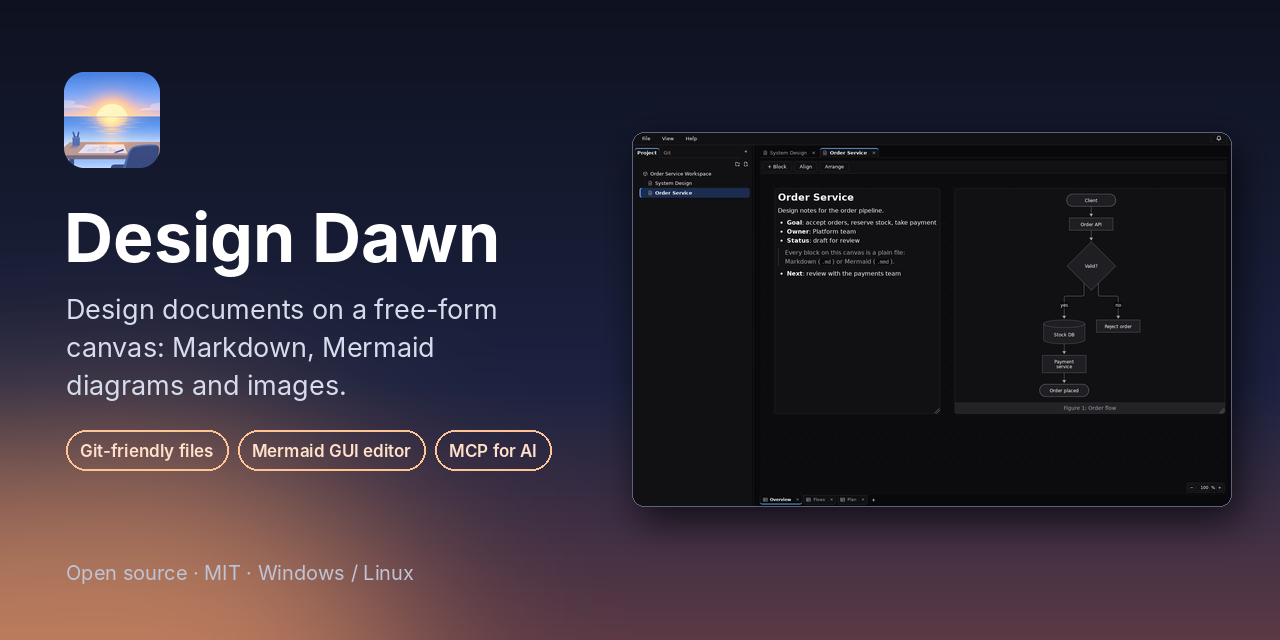
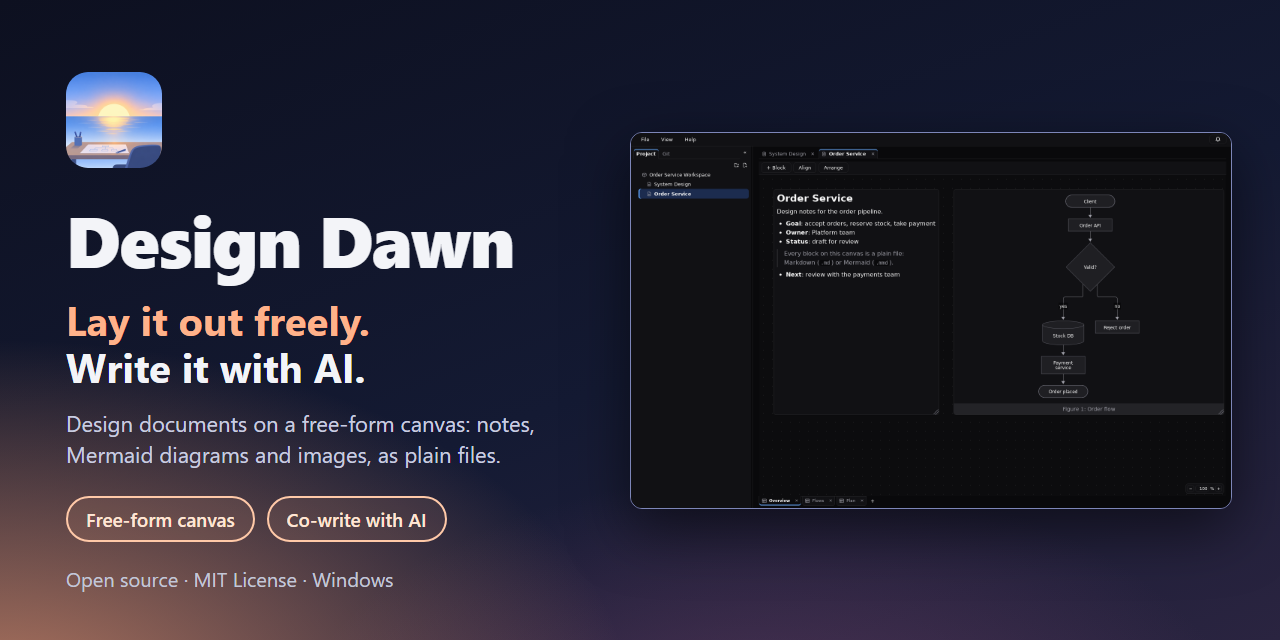
docs: lead with free layout and writing with AI
The README, the website and the social preview image now open with
"Lay it out freely. Write it with AI." The website FAQ is removed, and
the file-format text explains docs as code without assuming the reader
already knows the term.

diff --git a/website/ja/index.html b/website/ja/index.html
@@ -3,8 +3,8 @@
 <head>
   <meta charset="utf-8">
   <meta name="viewport" content="width=device-width, initial-scale=1">
-  <title>Design Dawn — Markdown と Mermaid で設計書を書く無料のデスクトップアプリ</title>
-  <meta name="description" content="Design Dawn は、Markdown・Mermaid の図・画像を自由配置キャンバスに並べて設計書（設計ドキュメント）を書く、無料・オープンソースのデスクトップアプリです。Git で差分を見られるテキスト保存、Mermaid の GUI 編集、AI 向け MCP サーバーに対応。">
+  <title>Design Dawn — 自由に並べて、AI と書く。| Markdown・Mermaid の設計書アプリ</title>
+  <meta name="description" content="Design Dawn は、Markdown のメモ・Mermaid の図・画像を自由配置キャンバスに並べて設計書（設計ドキュメント）を書き、AI ツールとも一緒に書ける、無料・オープンソースのデスクトップアプリです。AI は許可した範囲だけを手伝い、すべて普通のファイルとして保存されます。">
   <link rel="canonical" href="https://pg-refactor.github.io/Design-Dawn/ja/">
   <link rel="alternate" hreflang="en" href="https://pg-refactor.github.io/Design-Dawn/">
   <link rel="alternate" hreflang="ja" href="https://pg-refactor.github.io/Design-Dawn/ja/">
@@ -15,8 +15,8 @@
 
   <meta property="og:type" content="website">
   <meta property="og:site_name" content="Design Dawn">
-  <meta property="og:title" content="Design Dawn — 自由配置キャンバスで設計書を書く">
-  <meta property="og:description" content="Markdown・Mermaid の図・画像を1枚のキャンバスに。Git で差分を見られるテキストファイルで保存。Mermaid の GUI 編集と AI 向け MCP サーバー付き。">
+  <meta property="og:title" content="Design Dawn — 自由に並べて、AI と書く。">
+  <meta property="og:description" content="メモ・図・画像をシートの好きな場所に置いて設計書を書くデスクトップアプリ。AI は許可した範囲だけを手伝い、すべて普通のファイルとして手元に残ります。">
   <meta property="og:url" content="https://pg-refactor.github.io/Design-Dawn/ja/">
   <meta property="og:image" content="https://pg-refactor.github.io/Design-Dawn/images/og.png">
   <meta property="og:image:width" content="1280">
@@ -74,10 +74,11 @@
 <main>
   <div class="hero">
     <div class="wrap">
-      <h1><span class="glow">自由配置キャンバス</span>で設計書を書く</h1>
-      <p class="lead">Design Dawn は、ソフトウェアの設計書（設計ドキュメント）を書くための無料・オープンソースのデスクトップアプリです。
-        <strong>Markdown</strong>・<strong>Mermaid の図</strong>・<strong>画像</strong>をシート上の好きな位置に置けて、
-        すべてが普通のテキストファイルとして保存されるので、人が読め、Git で差分を見られ、AI ツールも安全に編集できます。</p>
+      <h1><span class="glow">自由に並べて、</span>AI と書く。</h1>
+      <p class="lead">Design Dawn は、設計書（設計ドキュメント）を書くための無料・オープンソースのデスクトップアプリです。
+        <strong>メモ</strong>（Markdown）・<strong>Mermaid の図</strong>・<strong>画像</strong>をシートの好きな場所に置き、
+        Claude・Codex・GitHub Copilot・Cursor などの AI ツールには、許可した範囲だけを手伝ってもらえます。
+        すべて普通のファイルとして手元に残ります。</p>
       <div class="cta">
         <a class="btn primary" href="https://github.com/PG-Refactor/Design-Dawn">GitHub で入手</a>
         <a class="btn" href="https://github.com/PG-Refactor/Design-Dawn/releases/latest">Windows 版をダウンロード</a>
@@ -124,10 +125,11 @@
   <section id="files">
     <div class="wrap two">
       <div>
-        <h2>Docs as Code：テキストで保存、読める差分</h2>
-        <p>配置は小さな JSON ファイルに、内容は <code>.md</code> と <code>.mmd</code> ファイルに保存されます。
-          設計の変更をプルリクエストでレビューでき、人や AI が1つのブロックだけを他に触れずに変更できます。
-          すべての JSON に <code>schemaVersion</code> があり、ID は変わらない UUID です。</p>
+        <h2>普通のファイルで保存。ソースコードと同じように変更を管理</h2>
+        <p>メモは <code>.md</code>、図は <code>.mmd</code> のファイルとして、配置は小さな JSON ファイルとして保存されます。
+          どのテキストエディタでも開け、Git を使えば設計のどこが変わったかを行単位で確認し、ソースコードと同じようにプルリクエストでレビューできます（「Docs as Code」と呼ばれる進め方です）。
+          人や AI が1つのブロックだけを、他に触れずに変更することもできます。
+          ドキュメント・シート・ブロックにはずっと変わらない ID が付いているので、名前を変えても周りのファイルが壊れることはありません。</p>
         <p>独自のデータベースは使わず、ロックインもありません。Design Dawn をやめても、ドキュメントは Markdown と Mermaid のまま残ります。</p>
       </div>
 <pre><code>my-project/
@@ -157,16 +159,6 @@
 <pre><code>claude mcp add design-dawn -- /path/to/design-dawn-mcp</code></pre>
       </div>
       <img class="shot" loading="lazy" src="../images/ai-request.png" width="1600" height="1000" alt="AI が Project を編集してよいかを確認する Design Dawn の画面">
-    </div>
-  </section>
-
-  <section id="faq">
-    <div class="wrap">
-      <h2>よくある質問</h2>
-      <details class="faq"><summary>無料ですか？</summary><p>はい。MIT ライセンスのオープンソースです。</p></details>
-      <details class="faq"><summary>対応 OS は？</summary><p>Windows 11 です（ダウンロードしてすぐ使えます）。Linux ではソースからビルドして使えます。Tauri 2（Rust と TypeScript）で作られています。</p></details>
-      <details class="faq"><summary>Markdown エディタやホワイトボードツールとの違いは？</summary><p>両方の良さを組み合わせています。ホワイトボードのように Markdown と Mermaid のブロックを自由に置けて、しかも保存はすべて Git やコードレビューで扱えるテキストファイルです。</p></details>
-      <details class="faq"><summary>インターネット接続は必要ですか？</summary><p>不要です。図はローカルで描画され、MCP サーバーもネットワークに接続しません。</p></details>
     </div>
   </section>
 </main>

diff --git a/website/index.html b/website/index.html
@@ -3,8 +3,8 @@
 <head>
   <meta charset="utf-8">
   <meta name="viewport" content="width=device-width, initial-scale=1">
-  <title>Design Dawn — Free-form canvas for design documents with Markdown &amp; Mermaid</title>
-  <meta name="description" content="Design Dawn is a free, open-source desktop app for writing design documents on a free-form canvas with Markdown, Mermaid diagrams and images. Git-friendly plain files, a Mermaid GUI editor, and an MCP server for AI tools.">
+  <title>Design Dawn — Lay it out freely. Write it with AI. | Design docs with Markdown &amp; Mermaid</title>
+  <meta name="description" content="Design Dawn is a free, open-source desktop app for design documents: place Markdown notes, Mermaid diagrams and images anywhere on a free-form canvas, and write them together with AI tools through a local MCP server, only where you allow. Saved as plain files.">
   <link rel="canonical" href="https://pg-refactor.github.io/Design-Dawn/">
   <link rel="alternate" hreflang="en" href="https://pg-refactor.github.io/Design-Dawn/">
   <link rel="alternate" hreflang="ja" href="https://pg-refactor.github.io/Design-Dawn/ja/">
@@ -15,8 +15,8 @@
 
   <meta property="og:type" content="website">
   <meta property="og:site_name" content="Design Dawn">
-  <meta property="og:title" content="Design Dawn — Design documents on a free-form canvas">
-  <meta property="og:description" content="Markdown, Mermaid diagrams and images on one canvas, stored as Git-friendly plain files. Includes a Mermaid GUI editor and an MCP server for AI tools.">
+  <meta property="og:title" content="Design Dawn — Lay it out freely. Write it with AI.">
+  <meta property="og:description" content="A desktop canvas for design docs: place notes, diagrams and images anywhere, and let AI help — only where you allow. Everything stays as plain files on your machine.">
   <meta property="og:url" content="https://pg-refactor.github.io/Design-Dawn/">
   <meta property="og:image" content="https://pg-refactor.github.io/Design-Dawn/images/og.png">
   <meta property="og:image:width" content="1280">
@@ -74,10 +74,11 @@
 <main>
   <div class="hero">
     <div class="wrap">
-      <h1>Design documents on a <span class="glow">free-form canvas</span></h1>
-      <p class="lead">Design Dawn is a free, open-source desktop app for writing software design documents.
-        Place <strong>Markdown</strong>, <strong>Mermaid diagrams</strong> and <strong>images</strong> anywhere on a sheet —
-        and keep everything as plain files that people can read, Git can diff, and AI tools can safely edit.</p>
+      <h1><span class="glow">Lay it out freely.</span> Write it with AI.</h1>
+      <p class="lead">Design Dawn is a free, open-source desktop app for design documents.
+        Place <strong>notes</strong> (Markdown), <strong>Mermaid diagrams</strong> and <strong>images</strong> anywhere on a free-form canvas,
+        and let AI tools such as Claude, Codex, GitHub Copilot and Cursor help — only where you allow.
+        Everything stays as plain files on your machine.</p>
       <div class="cta">
         <a class="btn primary" href="https://github.com/PG-Refactor/Design-Dawn">Get it on GitHub</a>
         <a class="btn" href="https://github.com/PG-Refactor/Design-Dawn/releases/latest">Download for Windows</a>
@@ -124,10 +125,11 @@
   <section id="files">
     <div class="wrap two">
       <div>
-        <h2>Docs as code: plain files, readable diffs</h2>
-        <p>Layout lives in small JSON files and content lives in <code>.md</code> and <code>.mmd</code> files.
-          Review design changes in pull requests, and let a person or an AI change one block without touching the rest.
-          Every JSON file carries a <code>schemaVersion</code>, and IDs are stable UUIDs.</p>
+        <h2>Plain files you can track like source code</h2>
+        <p>Each note is saved as a <code>.md</code> file and each diagram as a <code>.mmd</code> file; the layout goes into small JSON files.
+          You can open them in any text editor, and with Git you can see exactly what changed in a design and review it in a pull request,
+          the same way teams review code (often called “docs as code”). A person or an AI can change one block without touching the rest.
+          Every document, sheet and block keeps the same ID for life, so renaming one never breaks the files around it.</p>
         <p>No proprietary database and no lock-in: if you stop using Design Dawn, your documents are still Markdown and Mermaid.</p>
       </div>
 <pre><code>my-project/
@@ -157,16 +159,6 @@
 <pre><code>claude mcp add design-dawn -- /path/to/design-dawn-mcp</code></pre>
       </div>
       <img class="shot" loading="lazy" src="images/ai-request.png" width="1600" height="1000" alt="Design Dawn asking whether an AI tool may edit a project">
-    </div>
-  </section>
-
-  <section id="faq">
-    <div class="wrap">
-      <h2>FAQ</h2>
-      <details class="faq"><summary>Is Design Dawn free?</summary><p>Yes. It is open source under the MIT License.</p></details>
-      <details class="faq"><summary>Which platforms are supported?</summary><p>Windows 11, with a ready-to-run download. On Linux it can be built from source. It is built with Tauri 2 (Rust and TypeScript).</p></details>
-      <details class="faq"><summary>How is it different from a Markdown editor or a whiteboard tool?</summary><p>It combines both: Markdown and Mermaid blocks are placed freely on sheets like a whiteboard, but everything is saved as plain text files that work with Git and code review.</p></details>
-      <details class="faq"><summary>Does it need an internet connection?</summary><p>No. Diagrams are rendered locally, and the MCP server opens no network connections.</p></details>
     </div>
   </section>
 </main>

diff --git a/website/style.css b/website/style.css
@@ -223,21 +223,6 @@ section p.sub {
     grid-template-columns: 1fr;
   }
 }
-details {
-  background: var(--card);
-  border: 1px solid var(--line);
-  border-radius: 10px;
-  padding: 14px 18px;
-  margin-bottom: 10px;
-}
-details summary {
-  cursor: pointer;
-  font-weight: 600;
-}
-details.faq p {
-  color: var(--muted);
-  margin: 10px 0 0;
-}
 footer {
   border-top: 1px solid var(--line);
   padding: 32px 0 48px;

diff --git a/README.ja.md b/README.ja.md
@@ -1,4 +1,4 @@
-# Design Dawn — Markdown と Mermaid で設計書を書く、自由配置キャンバスのデスクトップアプリ
+# Design Dawn — 自由に並べて、AI と書く。
 
 [English](README.md) | **日本語** · [Web サイト](https://pg-refactor.github.io/Design-Dawn/ja/)
 
@@ -9,8 +9,8 @@
 ![MCP server](https://img.shields.io/badge/AI-MCP%20server-8A2BE2.svg)
 
 **Design Dawn** は、設計書（設計ドキュメント・仕様書）を書くための無料・オープンソースのデスクトップアプリです（Tauri 2、Rust + TypeScript）。
-**Markdown エディタ**、GUI でも編集できる **Mermaid 作図ツール**、画像を同じシートに自由に配置でき、Git で差分を見られるテキストファイルとして保存します（Docs as Code）。
-**MCP サーバー**を備え、Claude・Codex・GitHub Copilot・Cursor などの AI ツールからも読み書きできます。
+メモ（**Markdown**）・**Mermaid の図**・**画像**を自由配置キャンバスの好きな場所に置き、Claude・Codex・GitHub Copilot・Cursor などの AI ツールとローカルの **MCP サーバー**経由で一緒に書けます（AI が手伝うのは許可した範囲だけ）。
+すべて普通のテキストファイルとして保存されるので、Git で変更履歴を残し、ソースコードと同じようにプルリクエストでレビューできます（「Docs as Code」と呼ばれる進め方です）。
 
 ドキュメントは複数のシートからなり、各シートに **Markdown**・**Mermaid の図**・**画像** のブロックを自由に配置できます。
 すべてが通常のファイルとフォルダとして保存されるため、人が読み書きでき、Git でレビューでき、AI ツールも安全に変更できます。
@@ -53,8 +53,8 @@
 ## Design Dawn を使う理由
 
 - **長い1本のページでも、ホワイトボードの独自ファイルでもない** — メモ・図・画面写真をホワイトボードのように並べつつ、各ブロックは `.md` / `.mmd` ファイルなので、プルリクエストで差分をレビューできます。
+- **AI と一緒に書ける** — AI はローカルの MCP サーバー経由で操作し、許可するまでは読み取り専用。同時の変更は黙って上書きされず衝突として検出されます。
 - **構文を覚えなくても Mermaid** — フローチャート・シーケンス図・ガントチャートを GUI で編集でき、正本は Mermaid のソースのままです。
-- **AI エージェントにも安全** — AI はローカルの MCP サーバー経由で操作し、許可するまでは読み取り専用。同時の変更は黙って上書きされず衝突として検出されます。
 - **オフライン・ローカル完結** — アカウント不要、クラウド不要、描画にネットワークを使いません。
 
 主な用途：アーキテクチャ・システム設計書、API やシーケンスの設計、図入りの ADR、ガントチャートでの計画、Git での設計レビュー。

diff --git a/README.md b/README.md
@@ -1,4 +1,4 @@
-# Design Dawn — free-form canvas for design documents with Markdown and Mermaid
+# Design Dawn — Lay it out freely. Write it with AI.
 
 **English** | [日本語](README.ja.md) · [Website](https://pg-refactor.github.io/Design-Dawn/)
 
@@ -8,10 +8,11 @@
 ![Built with Tauri 2](https://img.shields.io/badge/built%20with-Tauri%202-24C8DB.svg)
 ![MCP server](https://img.shields.io/badge/AI-MCP%20server-8A2BE2.svg)
 
-**Design Dawn** is a free, open-source desktop app (Tauri 2, Rust + TypeScript) for writing
-software design documents on a free-form canvas: a **Markdown editor**, a **Mermaid diagram editor**
-with a GUI, and image blocks on the same sheet, saved as Git-friendly plain files (docs as code), with
-an **MCP server** so AI tools such as Claude, Codex, GitHub Copilot and Cursor can read and edit them.
+**Design Dawn** is a free, open-source desktop app (Tauri 2, Rust + TypeScript) for design
+documents. Place notes (**Markdown**), **Mermaid diagrams** and **images** anywhere on a free-form
+canvas, and write them together with AI tools such as Claude, Codex, GitHub Copilot and Cursor through
+a local **MCP server** — only where you allow. Everything is saved as plain text files, so you can
+track changes with Git and review designs in pull requests just like code ("docs as code").
 
 A document is a set of sheets; each sheet holds freely placed blocks of **Markdown**, **Mermaid
 diagrams** and **images**. Everything is stored as ordinary files and folders, so the same project
@@ -74,10 +75,10 @@ can be read and edited by people, reviewed with Git, and changed safely by AI to
 - **Not a long scroll, not a whiteboard file** — arrange notes, diagrams and screenshots side by
   side like a whiteboard, but keep every block as a `.md` or `.mmd` file you can diff and review in
   a pull request.
+- **Write it with AI** — AI tools work through a local MCP server, read-only until you allow
+  editing, with conflict detection instead of silent overwrites.
 - **Mermaid without memorising syntax** — edit flowcharts, sequence diagrams and Gantt charts in a
   GUI while the Mermaid source stays the source of truth.
-- **Safe for AI agents** — AI tools work through a local MCP server, read-only until you allow
-  editing, with conflict detection instead of silent overwrites.
 - **Offline and local** — no account, no cloud, no network access for rendering.
 
 Typical uses: architecture and system design docs, API and sequence flows, ADRs with diagrams,
